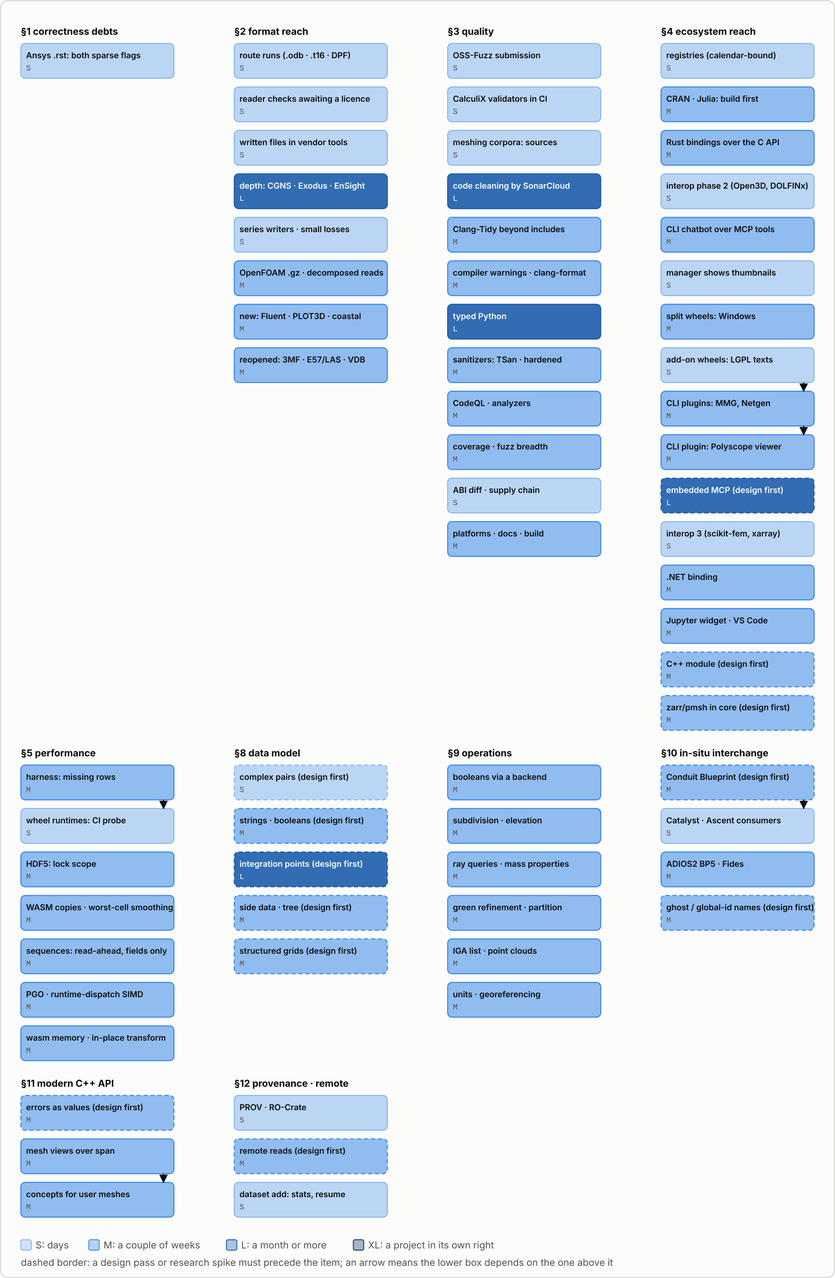
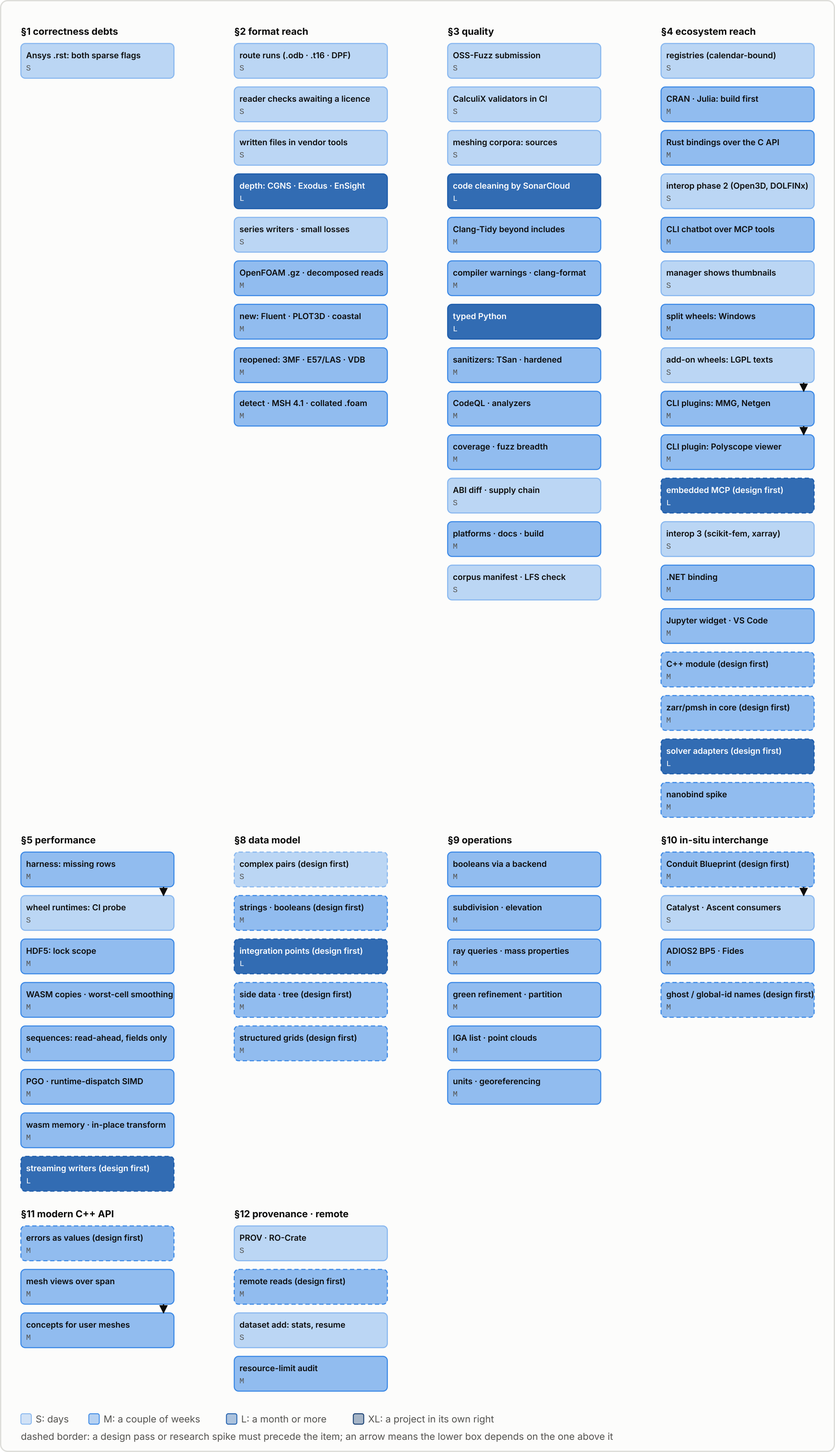
roadmap: carry the rest of the proposal's items, gates, dependency map, milestones and spec index
Adds 2.3.2.5, 2.3.5.4, 2.3.6.3, 2.3.7.5, 2.3.9.8-9, 2.4.9, 3.20, 4.16-4.17,
5.16, 7.4, 12.4, acceptance gates on the CGNS, Exodus and OpenFOAM items,
winget/Scoop under 4.1.7, a Zarr step under 4.15; map regenerated.

Claude-Session: https://claude.ai/code/session_01DnyVZC1z4s39zR3yhiaNMa

diff --git a/doc/diagrams/figures/flows.py b/doc/diagrams/figures/flows.py
@@ -1030,6 +1030,7 @@ def roadmap_map():
                 ("OpenFOAM .gz · decomposed reads", "M"),
                 ("new: Fluent · PLOT3D · coastal", "M"),
                 ("reopened: 3MF · E57/LAS · VDB", "M"),
+                ("detect · MSH 4.1 · collated .foam", "M"),
             ],
             [],
         ),
@@ -1048,6 +1049,7 @@ def roadmap_map():
                 ("coverage · fuzz breadth", "M"),
                 ("ABI diff · supply chain", "S"),
                 ("platforms · docs · build", "M"),
+                ("corpus manifest · LFS check", "S"),
             ],
             [],
         ),
@@ -1070,6 +1072,8 @@ def roadmap_map():
                 ("Jupyter widget · VS Code", "M"),
                 ("C++ module (design first)", "M"),
                 ("zarr/pmsh in core (design first)", "M"),
+                ("solver adapters (design first)", "L"),
+                ("nanobind spike", "M"),
             ],
             [(7, 8), (8, 9)],
         ),
@@ -1083,6 +1087,7 @@ def roadmap_map():
                 ("sequences: read-ahead, fields only", "M"),
                 ("PGO · runtime-dispatch SIMD", "M"),
                 ("wasm memory · in-place transform", "M"),
+                ("streaming writers (design first)", "L"),
             ],
             [(0, 1)],
         ),
@@ -1134,6 +1139,7 @@ def roadmap_map():
                 ("PROV · RO-Crate", "S"),
                 ("remote reads (design first)", "M"),
                 ("dataset add: stats, resume", "S"),
+                ("resource-limit audit", "M"),
             ],
             [],
         ),

diff --git a/doc/roadmap.md b/doc/roadmap.md
@@ -186,7 +186,7 @@ A CFD mesh arrives without its boundary conditions, its zone interfaces or its s
   - **2.3.1.5 Further bases.** Bases after the first are ignored with a warning (`cgns.cpp` lines 1492–1493). Add a `base` read option (name or index, the `region=` precedent of OpenFOAM) through `ReadOptions`; reading all into one mesh stays out, since bases may differ in dimension. **S**
   - **2.3.1.6 ADF without cgnslib.** Out of scope: ADF is a bespoke binary container and cgnslib is the route; state it on the page and correct the comments that still say polyhedra need cgnslib (`CMakeLists.txt` lines 374–386, `registry.cpp` lines 1254–1258, `cgns/__init__.py` lines 8–12). **S**
 - **Tests and fixtures.** `tests/python/test_cgns.py`, `tests/cpp/test_cgns.cpp`, `tests/cpp/test_hdf5_formats.cpp`; fixtures in `tests/python/meshes/cgns/`. The CGNS example set (`cgns.github.io` "Example files", public domain†) has multi-zone structured files with BCs: take two, with the README of step 2 of [recording a run](#awaiting-a-licensed-run).
-- **Done when.** `yf17.cgns` and `bump.cgns`-class examples read with their BC regions in both engines, and `meshioplusplus info` lists them.
+- **Done when.** `yf17.cgns` and `bump.cgns`-class examples read with their BC regions in both engines, and `meshioplusplus info` lists them. `cgnscheck` (CGNS's own checker†) reports no error on a file meshio++ wrote. The layout written for polyhedra is CGNS 4.x's `ElementStartOffset` form; the 3.x inline-length layout stays refused by name, as today.
 
 #### 2.3.2 Exodus II
 
@@ -199,8 +199,9 @@ Global variables, set variables, polyhedral blocks and assemblies. Consumers: MO
   - **2.3.2.2 `NSIDED` and `NFACED`.** `NSIDED`: `connect{k}` with `ebepecnt{k}` node counts per element, to a ragged `polygon` block. `NFACED`: `fbconn{k}`/`fbepecnt{k}` (faces as node lists) and `facconn{k}`/`ebepecnt{k}` (elements as face lists), to a `polyhedron` block through the `Face` accessors. Write both; core only if the Python twin cannot stay byte-identical, as CGNS's polyhedra are (then a `PARTIAL_ENGINE_EXEMPT` entry). **M**
   - **2.3.2.3 Set variables.** `vals_nset_var{v}ns{s}` is a value per node of a node set: scatter into a point array `<name>` that is NaN off the set, or keep as `field_data["exodus:nset:<set>:<name>"]` in set order; decide with 8.4, which gives side-set values (`vals_sset_var{v}ss{s}`) their home. Until 8.4, read both into the `field_data` form and write them back. **S–M**
   - **2.3.2.4 Assemblies.** Exodus 8 `assembly` groups name a tree of blocks and sets: read into the hierarchy convention 8.5 decides; until then keep the tree in `ExodusInfo` so the writer returns it. **S**
+  - **2.3.2.5 QA and information records on write.** *Verify first* what `write_exodus` emits (`ExodusInfo` holds `mInfoRecords` only): write the `qa_records` (code name, version, date, time) and keep `info_records` through a round trip, so `ncdump -h` and Exodus' own tools show the producing code. **S**
 - **Tests and fixtures.** `tests/python/test_exodus.py`, `test_exodus_writer_parity.py`, `tests/cpp/test_netcdf_formats.cpp`. Fixtures: generate with `netCDF4` in `tests/python/exodus_fixture.py` for 2.3.2.1 and 2.3.2.3; a MOOSE polyhedral output or a file from SEACAS' test data (BSD†) for 2.3.2.2.
-- **Done when.** `ncdump -h` of a file written back lists the same global and set variable names as the source.
+- **Done when.** `ncdump -h` of a file written back lists the same global and set variable names as the source. `exodiff`† (SEACAS) reports no difference between a file and its round trip, with the QA records excluded.
 
 #### 2.3.3 EnSight Gold
 
@@ -241,7 +242,8 @@ Sets, particle clouds, and compressed writes beyond Python and C++. **S–M**
   - **2.3.5.1 `polyMesh/sets`.** `cellSet`, `faceSet` and `pointSet` are `labelList`s like zones: parse with `parse_zone_file_binary` (line 624) and the ASCII zone path into regions `set:<name>` (face sets to side regions through the face owner, as face zones). Write regions of that prefix back as sets. **S**
   - **2.3.5.2 `lagrangian` clouds.** `<time>/lagrangian/<cloud>/positions` (barycentric `positions` since v1806, or Cartesian `coordinates`) and the per-particle fields: a vertex block with point data, returned as a second mesh through a `cloud=` read option, since a particle is not a node of the mesh. Read only; a `positions` file needs the owning cell, which a writer would have to locate (9.3). **M**
   - **2.3.5.3 Compressed writes on the flat surfaces.** The gzip write reaches only Python and C++, like the label and scalar widths: the registry's `registry_write_ex` (`write_options.cpp`, the `openfoam` branch) builds `OpenFoamWriteOptions` from `WriteOptions`, which has no compression field. Add one (an ABI change to `WriteOptions`, and `mio_write_opts` from its reserved tail), then `--compression gzip` in both CLIs and the WASM and flat-binding write options. **S**
-- **Done when.** A tutorial case's `sets` and a `lagrangian` cloud read in the core, and a `blockMesh` + `simpleFoam` case written by OpenFOAM with `writeCompression on` reads equal to its uncompressed twin (the synthetic gzipped cases of `OpenFoamCompressed` in `tests/cpp/test_openfoam.cpp` stand in until one is committed).
+  - **2.3.5.4 The collated `processors<N>/` layout.** *Verify first* (nothing in `openfoam.cpp` or the page names `decomposedBlockData`): newer OpenFOAM writes one `processors<N>/` directory holding a single collated file per field instead of `processorN/` directories; parse its block framing and feed the blocks to `reconstruct_decomposed` (`openfoam.cpp`), which already reads the `*ProcAddressing` lists. The reader already honours the `arch` header's label and scalar widths (`FoamFile` parsing near `openfoam.cpp` line 165). **M**
+- **Done when.** A tutorial case's `sets` and a `lagrangian` cloud read in the core, and a `blockMesh` + `simpleFoam` case written by OpenFOAM with `writeCompression on` reads equal to its uncompressed twin (the synthetic gzipped cases of `OpenFoamCompressed` in `tests/cpp/test_openfoam.cpp` stand in until one is committed). An optional `checkMesh` job (ESI and Foundation containers) is clean on a case meshio++ wrote.
 
 #### 2.3.6 Gmsh
 
@@ -249,6 +251,7 @@ Sets, particle clouds, and compressed writes beyond Python and C++. **S–M**
 - **Steps.**
   - **2.3.6.1 `$ElementNodeData`.** A value per element per node (discontinuous fields: what Gmsh's own post-processing and GetDP write). Parse with the tag reader `read_data` (`gmsh.cpp` near line 943; `common._read_data` in Python) and store as cell data of shape `(cells, nodes × components)` under the convention 8.3 decides; until then under `gmsh:element_node:<name>` with the layout in `field_data`, the form `abaqus:layout:` uses. Write it back. **S–M, after 8.3's design pass**
   - **2.3.6.2 `$GhostElements`.** To `cell_data["partition:ghost"]`, the name `partition`'s ghost layers use. **S**
+  - **2.3.6.3 The other MSH 4.1 sections.** `gmsh.cpp` parses `$Entities` (and `$Periodic`) but no `$PartitionedEntities`, `$Parametrizations` or parametric node coordinates (`u, v, w` after the point in a node record): keep each as `field_data` under a `gmsh:` prefix and write it back, so a Gmsh-partitioned model survives a round trip; the Gmsh 5.0 development manual's `$Polytopes`, `$Edges` and `$Faces` are a watch item until a release defines them†. **S–M**
   - **2.3.6.3 `$InterpolationScheme`.** Kept only as an opaque `GmshInfo` member so a round trip does not lose it. **S**
 - **Done when.** Gmsh's `tutorials/view*.msh`-class file with element-node data round-trips in both engines.
 
@@ -261,6 +264,7 @@ Sets, particle clouds, and compressed writes beyond Python and C++. **S–M**
   - **2.3.7.2 `OverlappingAMR`.** Levels of boxes with a refinement ratio: read as one hexahedral block per level with `vtkhdf:amr:level` cell data and the coarse cells under finer boxes blanked into a `uint8` mask; no hanging-node closure. `HyperTreeGrid` stays refused: it is a tree encoding with no cell list. **M**
   - **2.3.7.3 `.pvts`, `.pvtr`, `.pvti`.** Add three rows to `pvtu_info`, reading pieces with the serial readers and placing each by its `Extent` in the `WholeExtent` so shared planes are one layer of points (the existing merge does not weld). Writers split by `partition:part` only if the parts are boxes; otherwise refuse by name. **M**
   - **2.3.7.4 The round trip** is 8.6's: with its annotation, a mesh read from `vts` writes back as `vts`, and the three conformance declarations change from `error` to a note.
+  - **2.3.7.5 Composites with time, and a gate.** [VTKHDF](./formats/vtkhdf.md) flattens `MultiBlockDataSet` and has no time on composites, and refuses `Table` and `HyperTreeGrid`: write a temporal composite as the format's `Steps` group per block, check the `Version` attribute against what the content needs (it already writes the oldest that covers it), and add a `pvpython` CI job† that opens every written variant in a VTK of the pinned version. **M**
 - **Done when.** VTK's `Testing/Data` structured `.vtkhdf` and `.pvti` samples read to the same point and cell counts as `vtkXMLReader` reports.
 
 #### 2.3.8 Decomposed files, read whole without MPI
@@ -285,6 +289,8 @@ Each is the parity decision's "unwritten feature" if the format can hold it; whe
 - **2.3.9.5 Medit normals.** `Normals`, `NormalAtVertices`, `Tangents` and `TangentAtVertices` are discarded (`kMeditCountedSkips`, `medit.cpp` lines 570–579; `medit/_medit.py` lines 438–448 and 497–505). `NormalAtVertices` maps vertices to rows of `Normals`: read to `point_data["medit:normal"]` and write back. The engines also disagree on the skip itself, which is 3.4.12.
 - **2.3.9.6 Regions and data dropped on write.** `mphtxt` drops point and side regions (`mphtxt.cpp` lines 702–705) and all data (line 874); MED side regions (`med.cpp` lines 901–904); `frd` regions and non-nodal arrays (`frd.cpp` lines 1093–1097 and 1287). For each, decide from the format's documentation whether it has a slot (COMSOL boundary selections; MED families on face elements; CalculiX has none) and write it or state the fact on the page.
 - **2.3.9.7 LS-DYNA `*ELEMENT_SOLID_H20`.** Skipped as unsupported (`lsdyna.cpp` lines 419–422, `lsdyna/_lsdyna.py` lines 266–267); the two-line layout reads at most ten nodes. Read 20 nodes to `hexahedron20` through the [node-ordering registry](./node_ordering.md).
+- **2.3.9.8 glTF extensions and compression.** Neither `EXT_mesh_features`, Draco (`KHR_draco_mesh_compression`) nor meshopt (`EXT_meshopt_compression`) is named anywhere: read both compressions (a decoder dependency, optional and feature-gated, as zlib is) and write neither until a consumer asks; map `EXT_mesh_features` feature IDs to `point_data`/`cell_data` and the property table to `field_data`. Specifications†: the Khronos glTF registry. **M**
+- **2.3.9.9 OpenUSD completeness.** *Verify first* against [USD](./formats/usd.md) (a Python-only format by [decision](#non-goals-and-decisions-taken)): `GeomSubset`s as regions, `primvars` as point and cell data by interpolation, and `timeSamples` as steps. **M**
 
 ### 2.4 New formats {#new-formats}
 
@@ -367,6 +373,13 @@ Reopened: [`parameterize`](./parameterize.md) now produces texture coordinates, 
 - **State today.** Texture coordinates already round-trip: `uv` (`kUvName`, `operations/parameterize.hpp` line 70) to OBJ `vt` with `f v/vt` corners (`obj.cpp` lines 225–303) and to glTF `TEXCOORD_0` with `v` flipped (`gltf.cpp` lines 939–971). Missing: OBJ writes no `mtllib`/`usemtl` and reads none; glTF writes one fixed `baseColorFactor` material and no image (lines 1308–1340) and skips textures on read (`gltf_read.cpp` lines 835–836). A PNG encoder exists (`png_encode_rgba`, `detail/png_write.hpp` line 49); there is no PNG decoder.
 - **Steps.** (1) glTF: a `texture=` write option taking an RGBA array or a PNG path, embedded as a buffer view in `.glb` and referenced as `baseColorTexture`; on read, keep the image bytes in a side channel (`GltfInfo`) and its texture index, undecoded, so a round trip returns it. (2) OBJ: write `mtllib` and one `usemtl` with a sibling `.mtl` (`map_Kd`) and the PNG beside it; read `usemtl` groups as cell regions and the `.mtl`'s `Kd` and `map_Kd` into `field_data`. (3) A `bake_texture(mesh, array, size)` helper that rasterizes a point or cell array through `uv` with the existing rasterizer and colormaps (`detail/raster`), so a field becomes an image: Python and the core, by [checklist O](#landing-checklists). No material model beyond base colour.
 - **Done when.** `gltf-validator` (the `gltf-validator` CI job) accepts a textured `.glb`, and a parameterized mesh with a baked field opens textured in Blender.
+
+#### 2.4.9 A format detection report {#detect-report}
+
+`sniff_format` returns one name or `""` (`_sniff.py`, `_core.sniff_format`): a caller cannot tell a sure answer from a guess, nor that `.msh`, `.mesh`, `.inp` and `.xml` are ambiguous extensions. **S–M**
+
+- **Steps.** `detect(path)` returning `[(format, confidence, reason)]` ranked, built on the registry's sniffers (`registry.cpp`'s extension table and content probes): confidence `certain` (a magic number or header matched), `likely` (extension plus a structural check) or `guess` (extension only); the C API as `mio_detect` with a reserved-tail option struct, the CLI as `meshioplusplus detect`, an MCP tool, the WASM and flat bindings through [checklist O](#landing-checklists)'s steps 3 to 7; `sniff_format` stays and returns the first `certain` or `likely` entry.
+- **Done when.** A test set of ambiguous files (an Abaqus `.inp` and a Calculix one, a Gmsh `.msh` 2.2 and 4.1, a Medit `.mesh` and a Netgen one, a VTK XML `.xml`) resolves to the right format or reports `ambiguous` with both candidates.
 
 ---
 
@@ -600,6 +613,13 @@ Publishing already uses OIDC for PyPI and (with a token fallback, `wasm.yml` lin
   - **3.19.2 A table of widths** in [formats](./formats.md): for each format, the widest node and cell id it stores (MSH 4.1's sizes, Exodus' `int64` mode, CGNS' `cgsize_t`, VTKHDF, VTU's header types), generated from a test that writes an id above 2³¹ to each and records the outcome as the conformance matrix does.
 - **Done when.** A mesh with a tag of 2³¹ + 5 either round-trips or fails with the format's name, for every registered writer.
 
+### 3.20 A corpus manifest and an unfetched-fixture check {#corpus-manifest}
+
+Reference fixtures live in Git LFS (`tests/python/meshes/`, [AGENTS.md](https://github.com/loumalouomega/meshioplusplus/blob/main/AGENTS.md)), and the CI checkouts use `lfs: false` (`ci.yml` line 71 and the corpus workflows): a checkout that skipped the fetch hands a reader a three-line pointer, and the failure reads as a parse error in the format under test (**this was observed**: a local run of `test_ansys_rst.py` failed 216 tests on pointers before `git lfs pull`). **S**
+
+- **Steps.** 3.20.1 A session-scoped fixture check in `tests/python/conftest.py`: a file under `tests/python/meshes/` or `input/` that starts with `version https://git-lfs.github.com/spec/v1` fails collection with one message naming `git lfs pull --include=<dir>`, instead of failing every test in its format. 3.20.2 `tests/python/meshes/MANIFEST.json`, generated by `tools/gen_corpus_manifest.py`: per fixture its producer tool and version, its licence, its SHA-256 and its source URL where one exists (the README tables hold these today, per directory, in prose); a test that every fixture is listed and every entry exists, so the `CITATION.cff` paragraphs and the manifest cannot drift.
+- **Done when.** `pytest tests/python/test_ansys_rst.py` in a checkout without LFS stops at one message, and the manifest test fails when a fixture is added without a row.
+
 ---
 
 ## 4. Ecosystem reach {#ecosystem-reach}
@@ -618,7 +638,7 @@ Mostly logistics, and all blocking real adoption; the effort is small per target
 | 4.1.4 | Blender Extensions Platform | Zips built and attached to every release; only the listing remains. |
 | 4.1.5 | ConanCenter, the vcpkg registry | Recipes are CI-validated but in self-hosted shape, not upstream shape. |
 | 4.1.6 | A ParaView plugin index | Bundles ship on every release and load in Kitware's binaries; only a listing remains. |
-| 4.1.7 | Homebrew, Nix | Not started. |
+| 4.1.7 | Homebrew, Nix, winget, Scoop | Not started. |
 | 4.1.8 | A container image | Not started. |
 | 4.1.9 | Octave Packages index, MATLAB File Exchange | Not started. |
 
@@ -630,7 +650,7 @@ Spack is upstream already (`meshioplusplus` and `py-meshioplusplus` in `spack/sp
 - **4.1.4 Blender.** `src/blender/blender_manifest.toml.in` (`id meshioplusplus`, `license ["SPDX:MIT"]`, `blender_version_min 4.2.0`), built per platform by `wheels.yml`'s `blender_extension` job with `cp311` wheels. Submit at extensions.blender.org; the review asks for the bundled wheels' licences (the base wheel is MIT with static permissive libraries: point to `LICENSE-BINARIES.md`). Add the listing to [Blender](./blender.md).
 - **4.1.5 ConanCenter and vcpkg.** Conan: the real recipe is the root `conanfile.py`, which uses `exports_sources` with local paths; `packages/conan/` is the test package. ConanCenter needs `recipes/meshioplusplus/all/{conanfile.py,conandata.yml,test_package/}` with `source()` calling `get(**self.conan_data["sources"][version])` on the release tarball and its `sha256`, and dependencies as ConanCenter requirements rather than vendored. vcpkg: `packages/vcpkg/meshioplusplus/portfile.cmake` has `SHA512 0` and `HEAD_REF main`, and a private overlay port `packages/vcpkg/libaec/`; upstream needs the real hash, a `versions/` entry (`vcpkg x-add-version`), and either the upstream `libaec` or a pull request fixing it there first. Both recipes force Eigen and JSON off, which is right for a registry build. Generate both upstream forms from the self-hosted ones in the release job, so they cannot drift.
 - **4.1.6 ParaView.** `tools/paraview-meshioplusplus-plugin.py` with the bundles of `src/paraview/build_bundle.py`. There is no central index; the listing is a page on the ParaView Discourse "Plugins" category and an entry in Kitware's community-plugin list, with the install lines of [ParaView plugin](./paraview_plugin.md#installation).
-- **4.1.7 Homebrew, Nix.** A formula in a tap first (`loumalouomega/homebrew-meshioplusplus`: the native CLI and the C and C++ libraries, `depends_on "hdf5"`, `"netcdf"`, `"cmake" => :build`), homebrew-core once it has users; a `flake.nix` at the repository root exposing the CLI and the Python package, then nixpkgs. The release binaries cover the CLI meanwhile.
+- **4.1.7 Homebrew, Nix.** A formula in a tap first (`loumalouomega/homebrew-meshioplusplus`: the native CLI and the C and C++ libraries, `depends_on "hdf5"`, `"netcdf"`, `"cmake" => :build`), homebrew-core once it has users; a `flake.nix` at the repository root exposing the CLI and the Python package, then nixpkgs. The release binaries cover the CLI meanwhile. Add **winget and Scoop** manifests for the Windows CLI archive in the same step (a `winget-pkgs` pull request and a Scoop bucket; the `cli.yml` Windows leg is the source), and state in [CLI](./cli.md) which verbs match upstream meshio's CLI (`convert`, `info`, `binary`, `ascii`, `compress`, `decompress`, `increase-order`, `decrease-order`) so a script of its calls runs unchanged: *verify first* by running each.
 - **4.1.8 A container image.** `ghcr.io/loumalouomega/meshioplusplus:<version>`: a slim Python base with `pip install "meshioplusplus[all,addons]"` and the native CLI archive, built and pushed by a job in `wheels.yml` after publishing, with 3.14.5's attestation; for CI pipelines and HPC (Apptainer pulls it). Only the OSS-Fuzz Dockerfile exists today.
 - **4.1.9 Octave and MATLAB.** `pkg install` takes a tarball built by hand ([Octave / MATLAB](./octave.md)). Attach `meshioplusplus-octave-<version>.tar.gz` to the release (a step in `wheels.yml`: `tar -C bindings/octave -czf …`), then a pull request to `gnu-octave/packages` with the package's YAML. MATLAB itself has never been run in CI: add a `matlab-actions/setup-matlab` leg to the `octave` job running the same test directory before listing on File Exchange.
 
@@ -753,7 +773,20 @@ Reopened from the [non-goal](#non-goals-and-decisions-taken) that keeps `pmsh`, 
 - **State today.** `zarr/_zarr.py` writes the PhysicsNeMo layout with zarr-python 3 only (Zarr v3): root attributes (`physicsnemo_mesh_type`, `__tensordict__`, provenance), arrays `points` and `cells`, groups `point_data`, `cell_data`, `global_data`, chunks of at most 200,000 rows, Zstandard level 3 or none (lines 81–166). `write_dataset`'s store (`_ml.py` near lines 617–650) writes one group per entry with whichever zarr major is installed and its default codecs (Blosc under v2). `pmsh/_pmsh.py` writes a tensordict memory-map tree: `meta.json` files and raw little-endian blobs. In the core: the JSON DOM (`detail/json_value.hpp`), `vtk_codec_decompress_block` for zlib, LZ4, Zstandard and LZMA (`detail/vtu_binary.hpp` lines 107–157), but Zstandard and LZ4 are off by default (`CMakeLists.txt` lines 264–265; on in the wheels and the full WASM artifact) and there is no Blosc.
 - **Decisions to take first.** (1) Scope: `pmsh` first (JSON and raw blobs: no codec, days of work) and Zarr v3 with the two codecs the `zarr` writer itself uses; Zarr v2 and Blosc stores are refused by name, with `write_dataset` changed to write v3 with Zstandard so that everything meshio++ writes is readable. (2) Local directories only: no object-store client in the core; the browser reads a picked directory through the existing workspace layer. (3) A build without Zstandard reads uncompressed stores and refuses compressed ones naming the option, the TecIO pattern.
 - **Steps.** By [checklist F](#landing-checklists): `formats/pmsh.{hpp,cpp}` and `formats/zarr.{hpp,cpp}` (directory formats: the registry's directory sniffing, as OpenFOAM and Elmer); the Python packages become shims with the current code as the twin (`plain_shims`); writers too, by the parity decision; conformance declarations; remove the Python-only notes on the binding pages.
+- **Sharding and codecs.** After reading `zarr/_zarr.py`: say which Zarr v3 codecs and whether sharding (`sharding_indexed`) are in the native reader's scope, so a store written with default zarr-python 3 chunking and one written with sharding both read, and a codec the reader lacks is refused by name. Specification†: Zarr v3 core.
 - **Probe.** `meshioplusplus info store.zarr` in the native CLI, and the dataset manager opening a `.pmsh` entry.
+
+### 4.16 Solver adapters beyond DOLFINx {#solver-adapters}
+
+Zero-copy or one-copy bridges to the solver libraries whose meshes a user already holds, after 4.3's DOLFINx and in its pattern ([interop](./interop.md)). **L, design pass first**
+
+- **State today.** Open3D and DOLFINx are 4.3; scikit-fem and xarray are 4.10; deal.II is a [non-goal](#format-reach) (it reads and writes formats meshio++ reads). No item names PETSc DMPlex, MFEM's in-memory `Mesh`, Kratos' `ModelPart`, libMesh or preCICE (**verify first**: the Kratos mesh *backend* exists, `--mesh-backend KRATOS`, which is not an adapter to a `ModelPart` of a running Kratos).
+- **Decisions to take first.** Per library: the data model (DMPlex's cone/support and `DMPlexCreateFromCellListPetsc`; MFEM's `Mesh` from vertices and elements; a `ModelPart`'s nodes, elements and conditions; preCICE's `setMeshVertices` and `setMeshTriangles`†), whether the bridge is Python (a gated test and an extra, as 4.3) or a provider, and which of them has a pip or conda package a CI job can install.
+- **Done when.** Each adapter that lands solves a Poisson problem on a mesh meshio++ read, in a job using that library's package or container; the rest stay listed here. References†: the PETSc DMPlex manual, MFEM's mesh format page, preCICE's API reference.
+
+### 4.17 A nanobind spike {#nanobind-spike}
+
+*Spike.* Nothing in this file or in the docs names nanobind; pybind11 is the binding layer (`bindings/python/_core.cpp`, `np_conversions.hpp`). Measure before deciding: import time of `meshioplusplus._core`, wheel size, and the per-call overhead of a small getter, on a branch that ports one translation unit's worth of definitions (`core_def_*` helpers) to nanobind†; the decision, with the numbers, goes to [spikes](./spikes.md) and either closes this item or opens a migration. Free-threaded builds (3.15.1) are the other reason to look: nanobind's support for them is a documented feature†. **M, spike**
 
 ---
 
@@ -849,6 +882,14 @@ Reopened from the decision against SIMD intrinsics and `-march` flags, whose rea
 - **Steps.** (1) Measure: `perf record` on the tier L rows `read_vtu_ascii`, a base64 `vtu` read and write, a big-endian legacy VTK read, `distance_to_surface`, and report each candidate's share in [benchmarks](./benchmarks.md). (2) A kernel qualifies only if its vector form is bit-identical to the scalar one: byte and integer kernels are; the floating-point box tests are comparisons, which are; reductions (the centroid sums) are not and stay scalar. (3) For the two largest shares: a `detail/dispatch.hpp` (`MIO_TARGET_CLONES("avx2", "default")` on GCC and Clang for x86-64; NEON is baseline on arm64 and needs no dispatch; a manual `cpuid` function pointer for MSVC; `-msimd128` for the full WASM artifact only), with the scalar body unchanged and the vector body written with the compiler's vector extensions or Highway (Apache-2.0) if the extensions do not reach. (4) A test that runs each kernel's variants against the scalar one on random input, and the determinism check across the dispatch levels (an environment override `MESHIOPLUSPLUS_SIMD=off`).
 - **Done when.** The measured rows gain what (1) predicted with identical digests, or the measurement shows no kernel above a few percent and the non-goal stands.
 
+### 5.16 Streaming writers for one large mesh {#streaming-writers}
+
+The [sequence driver](./sequences.md) already keeps one mesh alive at a time (5.11); a *single* mesh of 10⁸ cells is held whole before any writer sees it. **L, design pass first**
+
+- **State today.** `write` takes a whole `Mesh`; the VTU `appended` mode (since v16.21.0) streams arrays into one section but from memory ([VTU](./formats/vtu.md)). *Verify first* which writers could emit a block at a time without a second pass (VTU appended, VTKHDF, XDMF with heavy data in HDF5, Exodus).
+- **Steps.** A `BlockWriter` interface (`Begin(header)`, `AddCellBlock`, `AddPointChunk`, `End`) beside `SeqSink`'s writers (`operations/sequence.cpp`), implemented first for VTKHDF and VTU-appended; the in-memory `write` becomes its one-chunk special case, with output byte-identical to today's (`tools/bench_ops.sh … --hash`).
+- **Done when.** A 10⁸-cell write peaks at no more than twice one chunk plus the mesh the caller holds, and is byte-identical to the in-memory writer's. An [ABI](./abi.md) addition: a review row.
+
 ---
 
 ## 6. Code duplication {#code-duplication}
@@ -883,6 +924,7 @@ What the pass could not settle here, because only a scan shows it. Configuration
 - **7.1 Confirm the third pass on the next `master` scan.** The scan of `015e109` (November 2026) left 25 bugs and 7 vulnerabilities, all closed by the second pass (`9b1b757`), whose full re-analysis reopened four older ones and kept four code smells. The third pass replaced `xdmf.cpp`'s tail `memset` by a fill over the array's own size (`cpp:S3519`), put `providers.cpp`'s two `cpp:S8462` markers back on the reported lines, and recorded per file the number formatters of `detail/fast_number.hpp` (`cppsecurity:S5145`) and the embedded viewer's focusable splitter and scroll region (`Web:S6845`). Steps: query `https://sonarcloud.io/api/issues/search?componentKeys=loumalouomega_meshioplusplus&resolved=false&ps=500` (and `api/measures/component` for the ratings), list what remains by rule in this section, and for each either fix it or add its `multicriteria` entry with the reason ([false positives](./static_analysis.md#false-positives)). Done when the query returns none that is not listed here. **S**
 - **7.2 Coverage on new code.** The `coverage` job uploads the `coverage-reports` artifact (`coverage.xml`, `cpp-coverage-sonar.xml`; `ci.yml` lines 1706–1715), which `sonarcloud.yml` finds through `workflow_run` (lines 67–110) and passes as `sonar.python.coverage.reportPaths` and `sonar.coverageReportPaths`. The quality gate's *Coverage on New Code* condition (80%) is then measured rather than failed outright. If the gate stays red, the uncovered new lines it names are the work, or the condition is set to what the suites reach; 3.11.1 puts the same number on pull requests, where it can be acted on before merging. **S**
 - **7.3 The viewer's built page is stale.** `src/viewer/src/features/shell.ts` line 39 sets the splitter's `aria-valuenow` when it moves, but the committed `src/python/meshioplusplus/_viewer_assets/viewer.html` holds the attribute once, the static one: its minified `setWidth` predates the change. Rebuilding needs the WebAssembly package (`npm run build:embed` in `src/viewer`, then copy `dist-embed/index.html` over the asset, `src/viewer/README.md` lines 44–108). CI's only check is a size drift of at most 10% (`ci.yml` lines 2171–2190), which cannot see this: add to the `viewer-web` job, which builds the package anyway, a step that runs `build:embed` and fails when the result differs from the committed asset (or commits it from a scheduled job), so the embedded page cannot fall behind again. 4.6 and 4.12 need the rebuild too. **S**
+- **7.4 Make the gates required.** *Verify first* in the repository settings (not readable from the tree): the quality gate of `sonarcloud.yml` and the `tools/dup_report.py` ratchet are advisory until named as required status checks on `master`; 3.5, 3.9 and 3.10 already say "required" for their own gates. List the gates that are required today in [static analysis](./static_analysis.md) and make the Sonar gate and the duplication ratchet required once 7.1 and 7.2 show a clean new-code gate. **S**
 
 ---
 
@@ -1118,6 +1160,14 @@ After 11.2. A `MeshLike` concept (what `registry_write` needs from a type) so an
 - **Steps.** A `--stats` option on `add` filling each entry from `read_metadata` (no full read; `_cli/_dataset.py`), and `--resume`, which skips an entry whose file digest is already in the manifest.
 - **Done when.** Interrupting and re-running a 100-file `add --resume` reads no file twice.
 
+### 12.4 A resource-limit audit of every reader {#resource-limits}
+
+`max_cells`-style caps exist (the parse guards of `detail/parse_guard.hpp`, the windowed-sparse bound of `ansys_rst.cpp`, the per-reader limits [fuzzing](./fuzzing.md) lists); what is not stated anywhere is whether every reader has all of them. **M**
+
+- **Steps.** A table in [fuzzing](./fuzzing.md) per reader: cap on points and cells declared in a header, on any single allocation, on a decompression ratio (gzip, zlib, zstd, lzma, lz4 inside VTU, HDF5 filters), on XML include or entity depth (`pugixml` options of the VTK XML family: external entities refused), and on HDF5 external links and virtual datasets (refused unless an option allows them); a reader missing a cap gets it through `detail/parse_guard.hpp`, with its minimized input under `tests/fuzz/regressions/<format>/` and the same refusal in the Python twin.
+- **MCP.** Cross-check [MCP](./mcp.md)'s sandbox against 4.9: output and temporary files created with restrictive modes and inside the allowed directory only (*verify first* in `mcp/_tools.py`'s path handling).
+- **Done when.** The table has no empty cell, and a `tests/fuzz/` decompression-bomb seed is refused by every codec-bearing reader without allocating more than the cap.
+
 ---
 
 ## Non-goals and decisions taken
@@ -1204,3 +1254,54 @@ Open work only; what shipped is in `CHANGELOG.md`.
 11. **Operations ([§9](#operations))** — the boolean backend's measurement first (9.1.1, 9.1.2), since it decides a non-goal and two parked features; then the small ones a user notices missing (mass properties 9.4, ray casting and point location 9.3, point-cloud conditioning 9.9, the IGA list 9.8), then subdivision and elevation (9.2, 9.5), the partitioner providers (9.7) and repeated green refinement (9.6.1). Only 9.10.2 and 9.6.2 wait on a decision.
 12. **Data model ([§8](#data-model))** — design passes only until one says otherwise. The two whose recommended form is a convention and days of work, and which close losses already listed on format pages: complex pairs (8.1) and the structured annotation (8.6). Strings (8.2) before hierarchy (8.5), which uses them. Integration-point data (8.3) is the largest and the one most formats wait on (2.3.6.1, MED ELGA, the result readers); side data (8.4) unblocks 2.3.1.4 and 2.3.2.3. The format items that wait on each say so.
 13. **In-situ interchange, the modern C++ surface and provenance ([§10](#in-situ-interchange) to [§12](#provenance-remote))** — after everything above, in this order by dependency: the Conduit bridge (10.1) in Python first, since it needs no core change, and the ghost conventions (10.4) with 2.3.8.1, which wants the same names; errors as values and views (11.1, 11.2) together in one ABI change, then the concepts on top (11.3); PROV and RO-Crate (12.1), the `dataset add` statistics (12.3) and the remote-read decision (12.2) are small and independent. The upstream-meshio run (3.18) and the identifier-width audit (3.19) belong with the tooling of item 4. §10 to §12 came from a proposed revision of this file in November 2026: what the revision listed that the tree or this file already had (supply chain, hardening, the ABI diff, the C++ module, Zarr and pmsh in the core, the dataset manifests, the PyG dataset, partition ghosts and the `pvtu` writer, node-order tables, fsspec URLs, the mutation-testing and engine-differential spikes) was not repeated.
+14. **The remaining proposal-derived items** — corpus manifest and unfetched-fixture check (3.20) with the tooling of item 4; `detect` (2.4.9), the MSH 4.1 sections (2.3.6.3), QA records (2.3.2.5), collated OpenFOAM (2.3.5.4), VTKHDF composites (2.3.7.5) and glTF and OpenUSD completeness (2.3.9.8, 2.3.9.9) with format reach; the nanobind spike (4.17) beside 3.15.1; solver adapters (4.16) after 4.3 and 4.10; streaming writers (5.16) after 5.11; the resource-limit audit (12.4) beside 3.12; required gates (7.4) after 7.1 and 7.2.
+
+### Dependency overview
+
+An arrow means the item on the right needs the one on the left. Numbers are this file's.
+
+```
+2.3.8.1 merge by global id ──► 2.3.8.2 Nemesis      10.4 ghost/id names ──► 2.3.8.1 (takes them as input)
+11.2 mesh views ──► 11.3 concepts, 5.16 streaming writers, 10.1 Conduit (native provider only)
+11.1 errors as values ──► 4.9.2 the core MCP server (its error mapping), 4.2 Rust crate (status codes)
+10.1 Conduit bridge ──► 10.2 Catalyst and Ascent consumers
+2.3.7.1 VTKHDF ImageData ──► 2.3.7.5 temporal composites     8.6 structured annotation ──► 2.3.7.4, 2.3.1.3
+3.20.1 unfetched-fixture check ──► every fixture-driven item (do it first)
+3.14.6 SBOM ──► 12.2 (a vendored remote-read client is a new dependency)
+7.1, 7.2 clean new-code scan ──► 7.4 required gates
+4.3 DOLFINx, 4.10 scikit-fem ──► 4.16 solver adapters
+```
+
+### Milestones
+
+By theme, not by version number: the project bumps its major version on an ABI change, so a version here would be a guess.
+
+| Milestone | Content | Exit criterion |
+| --- | --- | --- |
+| Format leftovers | 1.1.2, 2.3.1 to 2.3.6, 2.3.9, 3.20 | `cgnscheck`, `exodiff` and `checkMesh` clean on written files; no fixture fails as a pointer |
+| A stable C++ surface | 11.1, 11.2 in one ABI change, then 11.3, 2.4.9 | `try_read` on junk bytes returns an `Error` for every registered format under ASan |
+| In-situ and large data | 10.1, 10.2, 10.4, 2.3.7.5, 5.16, 12.4 | Blueprint `verify` passes for every cell type; a 10⁸-cell streamed write stays under its memory bound |
+| Reach | 4.1, 4.8, 4.16, 3.18, 12.1 to 12.3 | upstream meshio's suite runs with a known-failures file; a Poisson solve per landed adapter |
+| Research | 4.17, 3.11.3, the long spikes of [spikes](./spikes.md) | a written decision per spike |
+
+### Specification index
+
+Every link is quoted from memory and marked †: open it before relying on it (the legend of [format reach](#format-reach)).
+
+| Topic | Where to read † |
+| --- | --- |
+| meshio (upstream) | github.com/nschloe/meshio |
+| VTK legacy and XML, VTKHDF | docs.vtk.org, *VTK file formats* and *VTKHDF file format* |
+| Gmsh MSH 2.2 and 4.1 | gmsh.info, *Gmsh file formats* |
+| CGNS SIDS and MLL | cgns.github.io |
+| Exodus, Nemesis, `exodiff` | SEACAS documentation (sandialabs.github.io/seacas-docs) |
+| OpenFOAM mesh and collated I/O | openfoam.com and cfd.direct user guides |
+| libMeshb (`.meshb`) | github.com/LoicMarechal/libMeshb |
+| glTF and its extensions | registry.khronos.org/glTF |
+| OpenUSD | openusd.org |
+| Conduit Blueprint, Catalyst, Ascent | llnl-conduit.readthedocs.io, catalyst-in-situ.readthedocs.io, ascent.readthedocs.io |
+| ADIOS2 and Fides | adios2.readthedocs.io, fides.readthedocs.io |
+| Zarr v3 | zarr-specs.readthedocs.io |
+| W3C PROV, RO-Crate | w3.org/TR/prov-overview, researchobject.org/ro-crate |
+| `std::expected`, `std::mdspan` | en.cppreference.com |
+| nanobind | github.com/wjakob/nanobind |
